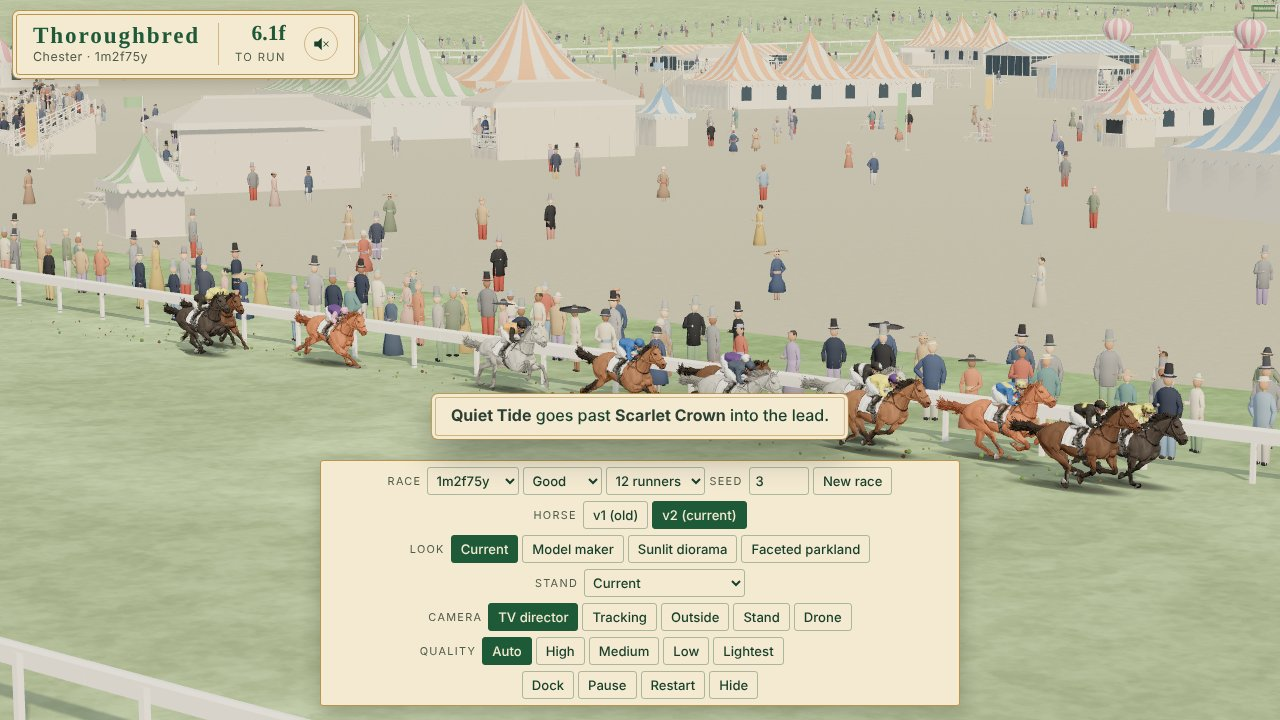
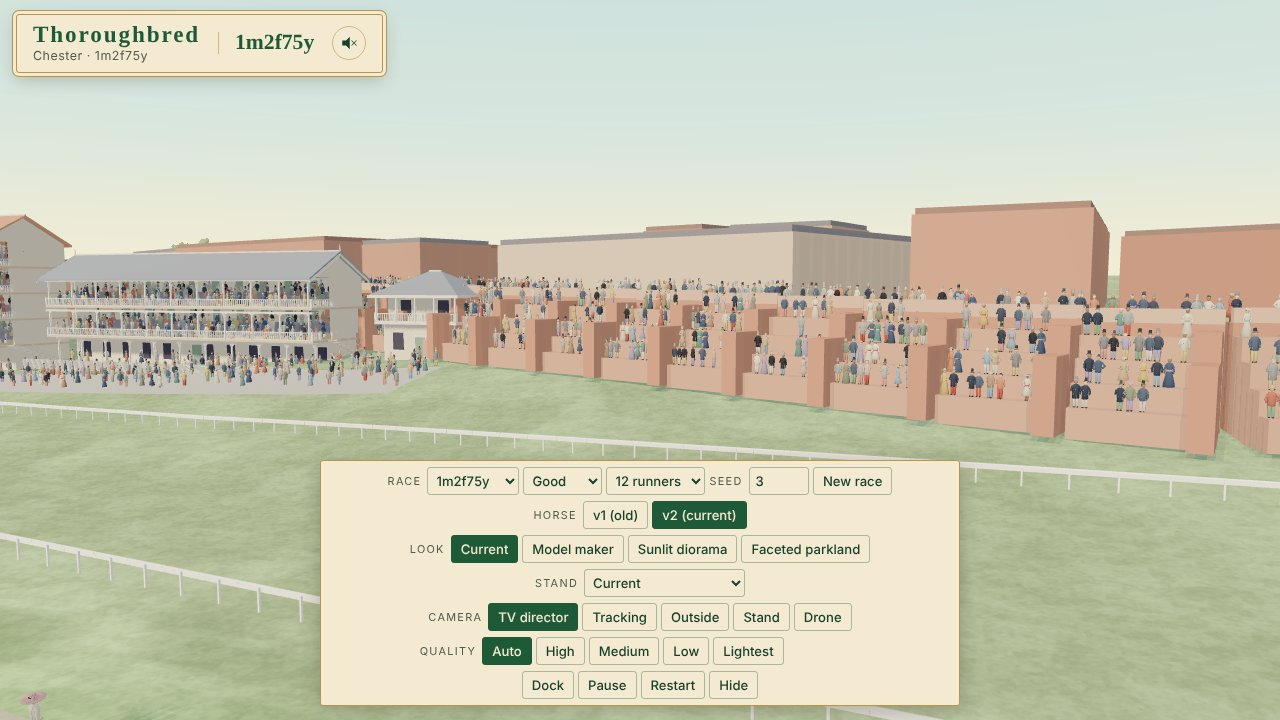
Chester test page: the terraces still
Claude-Session: https://claude.ai/code/session_019m8Mz6V5r8pm1tDSodtBiu

diff --git a/race-view/chester.html b/race-view/chester.html
@@ -64,8 +64,8 @@ h1 { font-family: var(--display); font-weight: 700; font-size: clamp(34px, 6vw, 
   </header>
 
   <figure class="view" style="margin:0">
-    <img src="chester-hero.jpg" alt="Chester, draft: the field on the railway side, seen across the infield festival">
-    <figcaption>Chester, draft: the field on the railway side, seen across the infield festival</figcaption>
+    <img src="chester-hero.jpg" alt="Chester, draft: the County Stand and the city wall&#x27;s terraces along the home straight">
+    <figcaption>Chester, draft: the County Stand and the city wall&#x27;s terraces along the home straight</figcaption>
   </figure>
 
   <section class="card" aria-labelledby="races-h">
